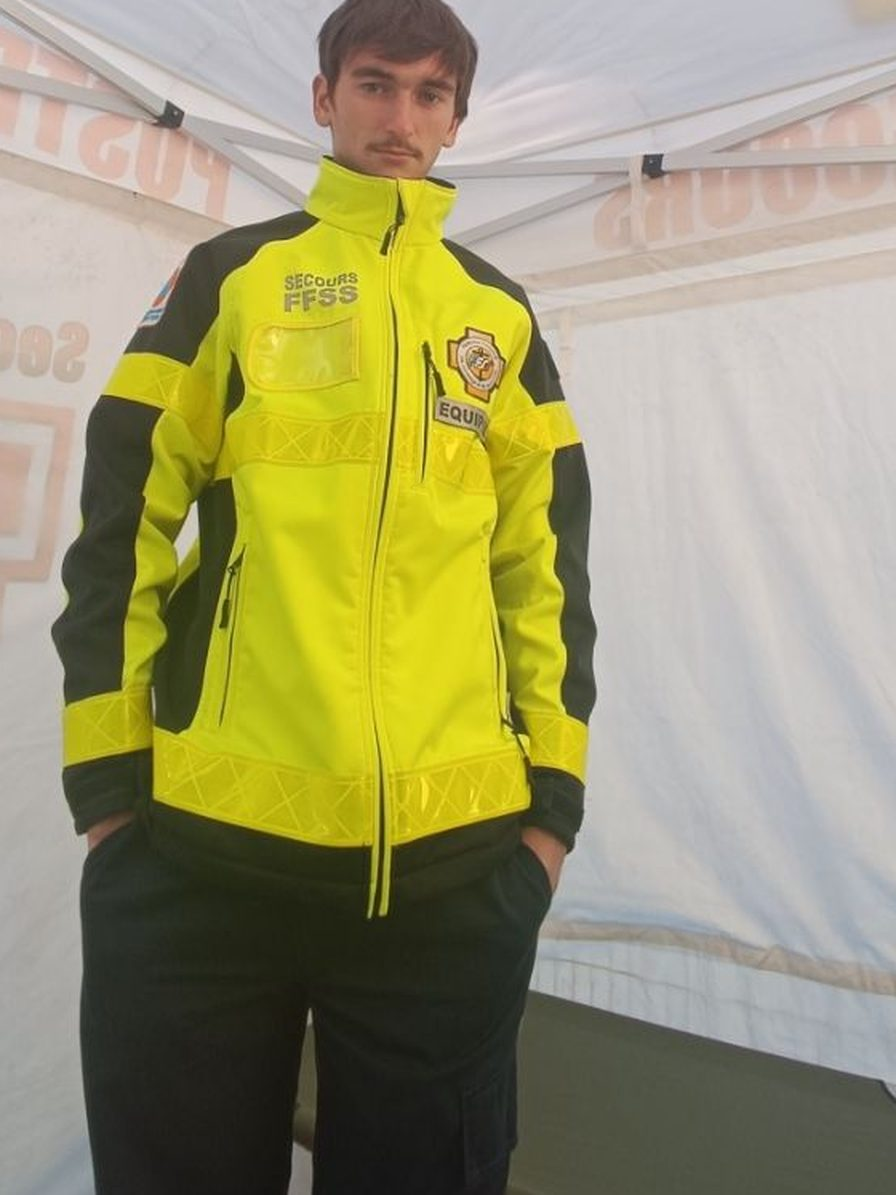
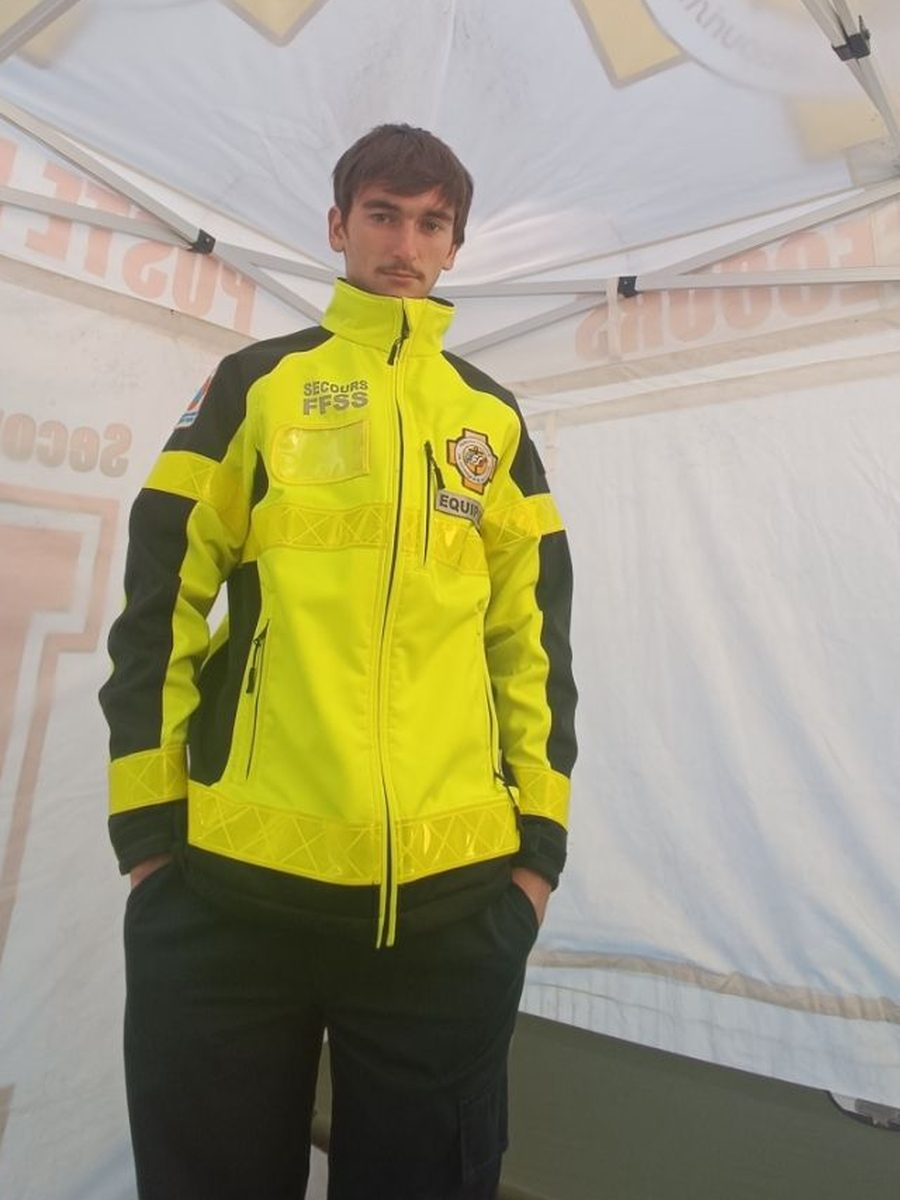
Portraits coupés en haut, et trois vitesses qui se ressemblent enfin
LA TÊTE COUPÉE. Le portrait ouvert n'affiche que 54 % de la largeur de
l'image : sa colonne fait 320 sur 791 pixels, soit un rapport de 0,40 quand
nos images sont en 3/4. Mesuré dans la boîte ouverte. Ce qui manquait à
Nicolas n'était pourtant pas là — c'était sa boîte source, trop serrée en
haut, où le crâne touchait déjà le bord.

Élargie. Et comme le défaut n'a pas de raison d'être isolé, les seize autres
ont été passés au crible : trois avaient la bande haute très contrastée, signe
d'une tête au bord. Romain était rattrapable, sa capture d'écran laissait de la
marge au-dessus. Anne Sophie et Mathieu ne le sont pas : leurs photos sont déjà
cadrées trop court à la source, rien à récupérer sans une autre image.

LA RANGÉE DU MILIEU ne va pas plus vite : mesuré, elle allait à trente pixels
par seconde comme la première, la troisième à vingt-cinq. Ce qui trompe l'œil,
c'est son sens inverse — deux rangées qui se croisent ont une vitesse relative
égale à la somme des deux, soit soixante contre cinquante-cinq pour les autres
paires.

Elle devient donc la plus lente des trois, et l'écart entre les extrêmes tombe
à 15 % : assez pour que deux rangées ne se verrouillent pas, trop peu pour
qu'une seule attire l'œil.

diff --git a/outils/portraits.py b/outils/portraits.py
@@ -77,7 +77,9 @@ PORTRAITS = {
         'fichier': 'Screenshot_2026-08-24-11-15-08-728_com.miui.gallery.jpg',
         # Capture d'écran très haute : sans boîte il n'est qu'une silhouette
         # sous la tente, et le bas de l'image porte une bande noire.
-        'boite': (238, 1050, 798, 1797),
+        # Remontée : la tête touchait le bord haut une fois recadrée par la
+        # boîte de dialogue, qui ne montre que 54 % de la largeur.
+        'boite': (200, 950, 840, 1803),
     },
     'andrea': {
         'fichier': '29e5ff3b-9af8-4f3b-bbbd-0cc0b56dc712.jpeg',
@@ -90,7 +92,9 @@ PORTRAITS = {
         'fichier': 'Nicolas verdot a gauche.JPG',
         # Selfie à quatre, il est le premier à gauche — le fichier le dit, et
         # c'est ce qui a manqué pour Guillaume.
-        'boite': (0, 170, 600, 970),
+        # Desserrée : à (0, 170, 600, 970) le haut du crâne touchait le bord,
+        # et le portrait ouvert le montrait coupé.
+        'boite': (0, 110, 720, 1070),
     },
     'mathieu': {
         'fichier': 'WhatsApp Image 2026-02-21 at 18.18.51.jpeg',
